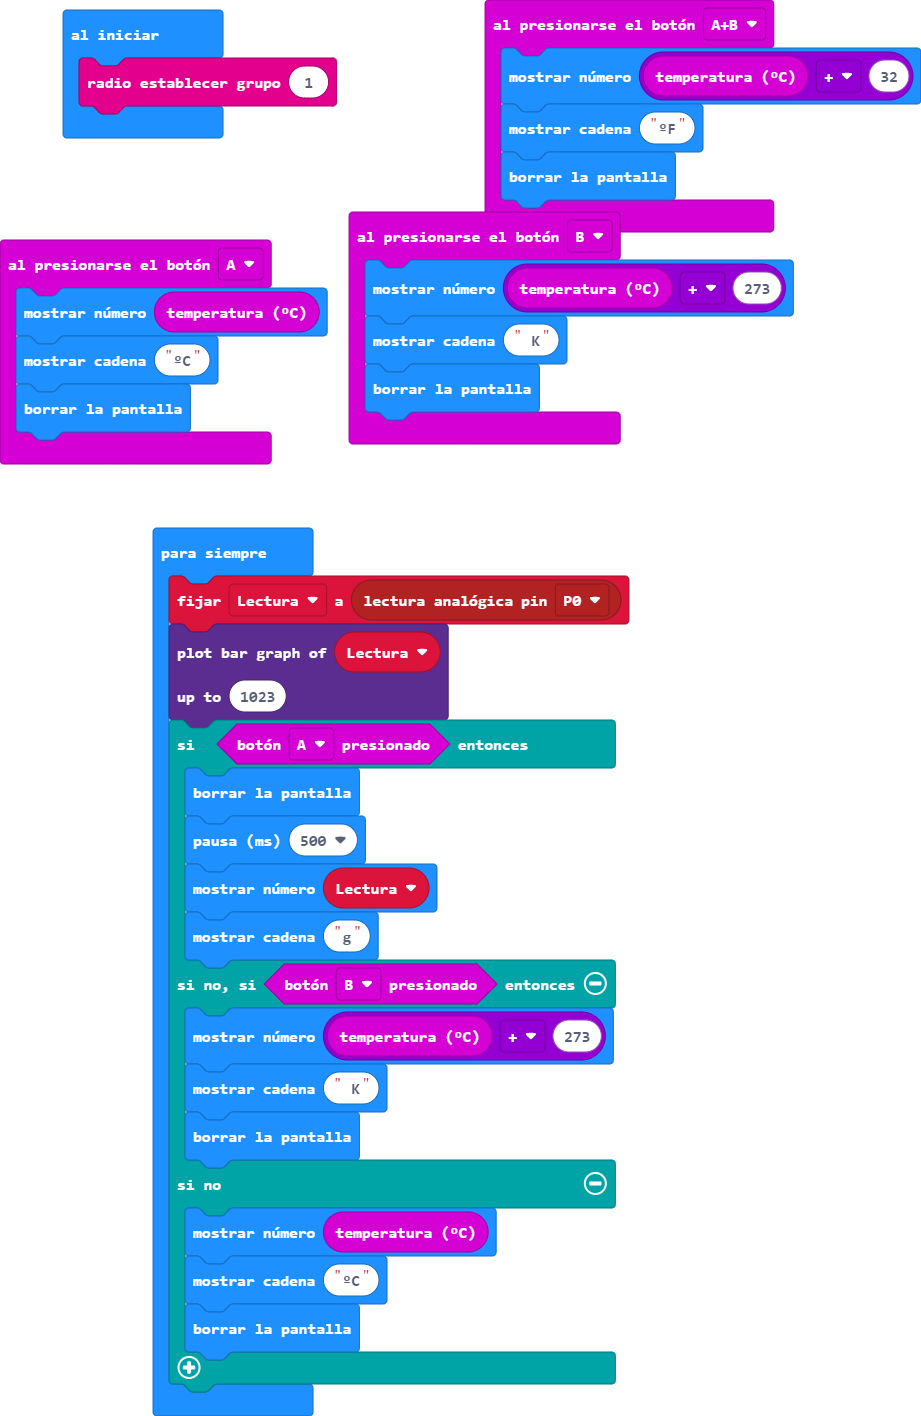
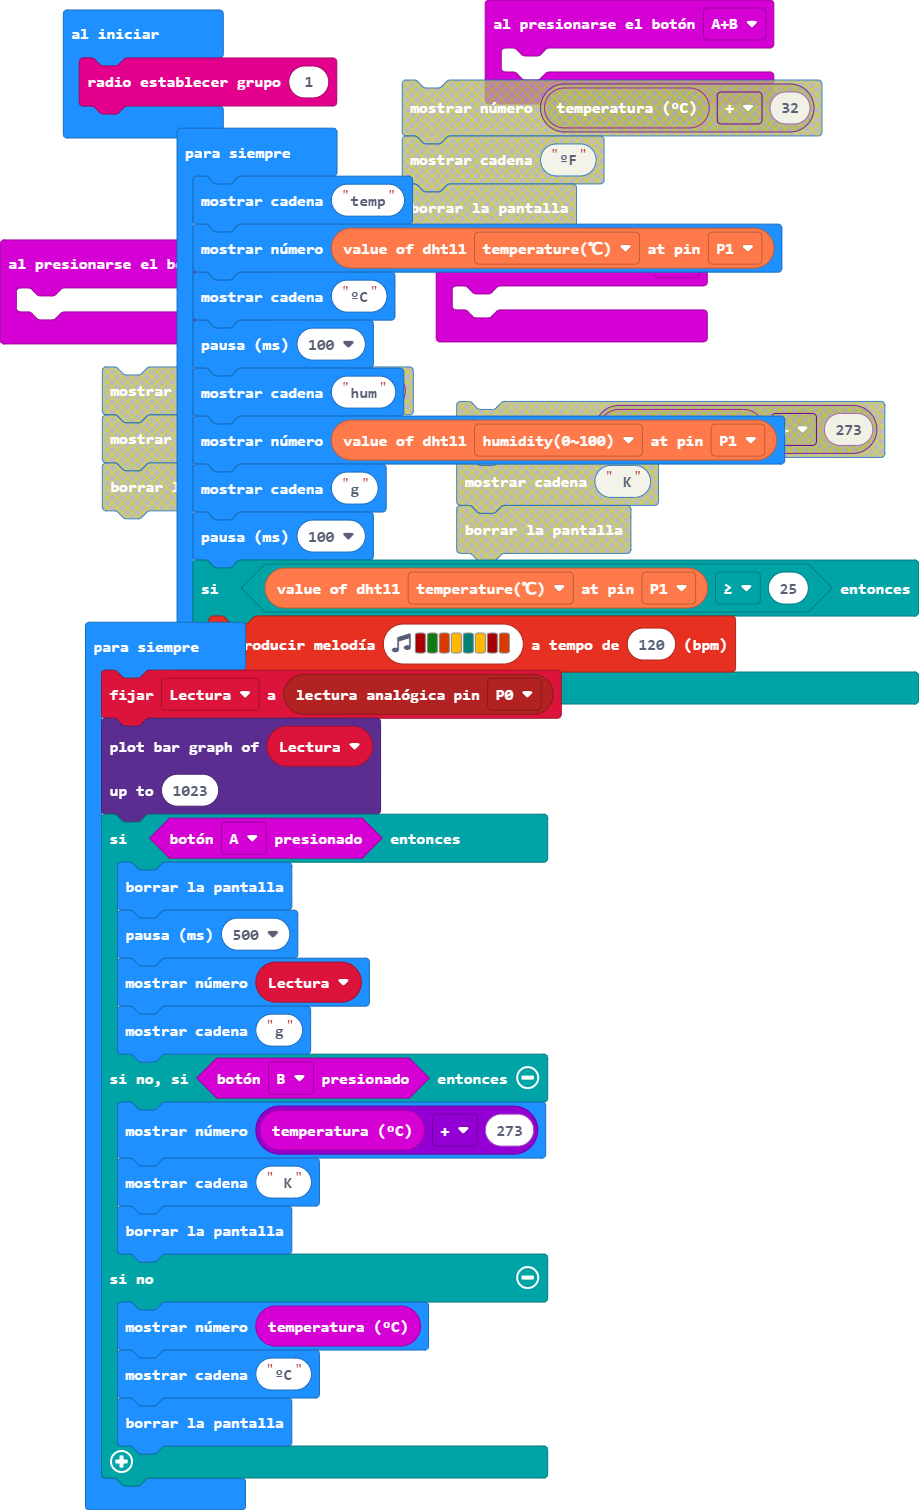
m

diff --git a/main.ts b/main.ts
@@ -1,20 +1,27 @@
 input.onButtonPressed(Button.A, function () {
-    basic.showNumber(input.temperature())
-    basic.showString("ºC")
-    basic.clearScreen()
+	
 })
 input.onButtonPressed(Button.AB, function () {
-    basic.showNumber(input.temperature() + 32)
-    basic.showString("ºF")
-    basic.clearScreen()
+	
 })
 input.onButtonPressed(Button.B, function () {
-    basic.showNumber(input.temperature() + 273)
-    basic.showString(" K")
-    basic.clearScreen()
+	
 })
 let Lectura = 0
 radio.setGroup(1)
+basic.forever(function () {
+    basic.showString("temp")
+    basic.showNumber(Environment.dht11value(Environment.DHT11Type.DHT11_temperature_C, DigitalPin.P1))
+    basic.showString("ºC")
+    basic.pause(100)
+    basic.showString("hum")
+    basic.showNumber(Environment.dht11value(Environment.DHT11Type.DHT11_humidity, DigitalPin.P1))
+    basic.showString("g")
+    basic.pause(100)
+    if (Environment.dht11value(Environment.DHT11Type.DHT11_temperature_C, DigitalPin.P1) >= 25) {
+        music.playMelody("C5 G B A F A C5 B ", 120)
+    }
+})
 basic.forever(function () {
     Lectura = pins.analogReadPin(AnalogPin.P0)
     led.plotBarGraph(
